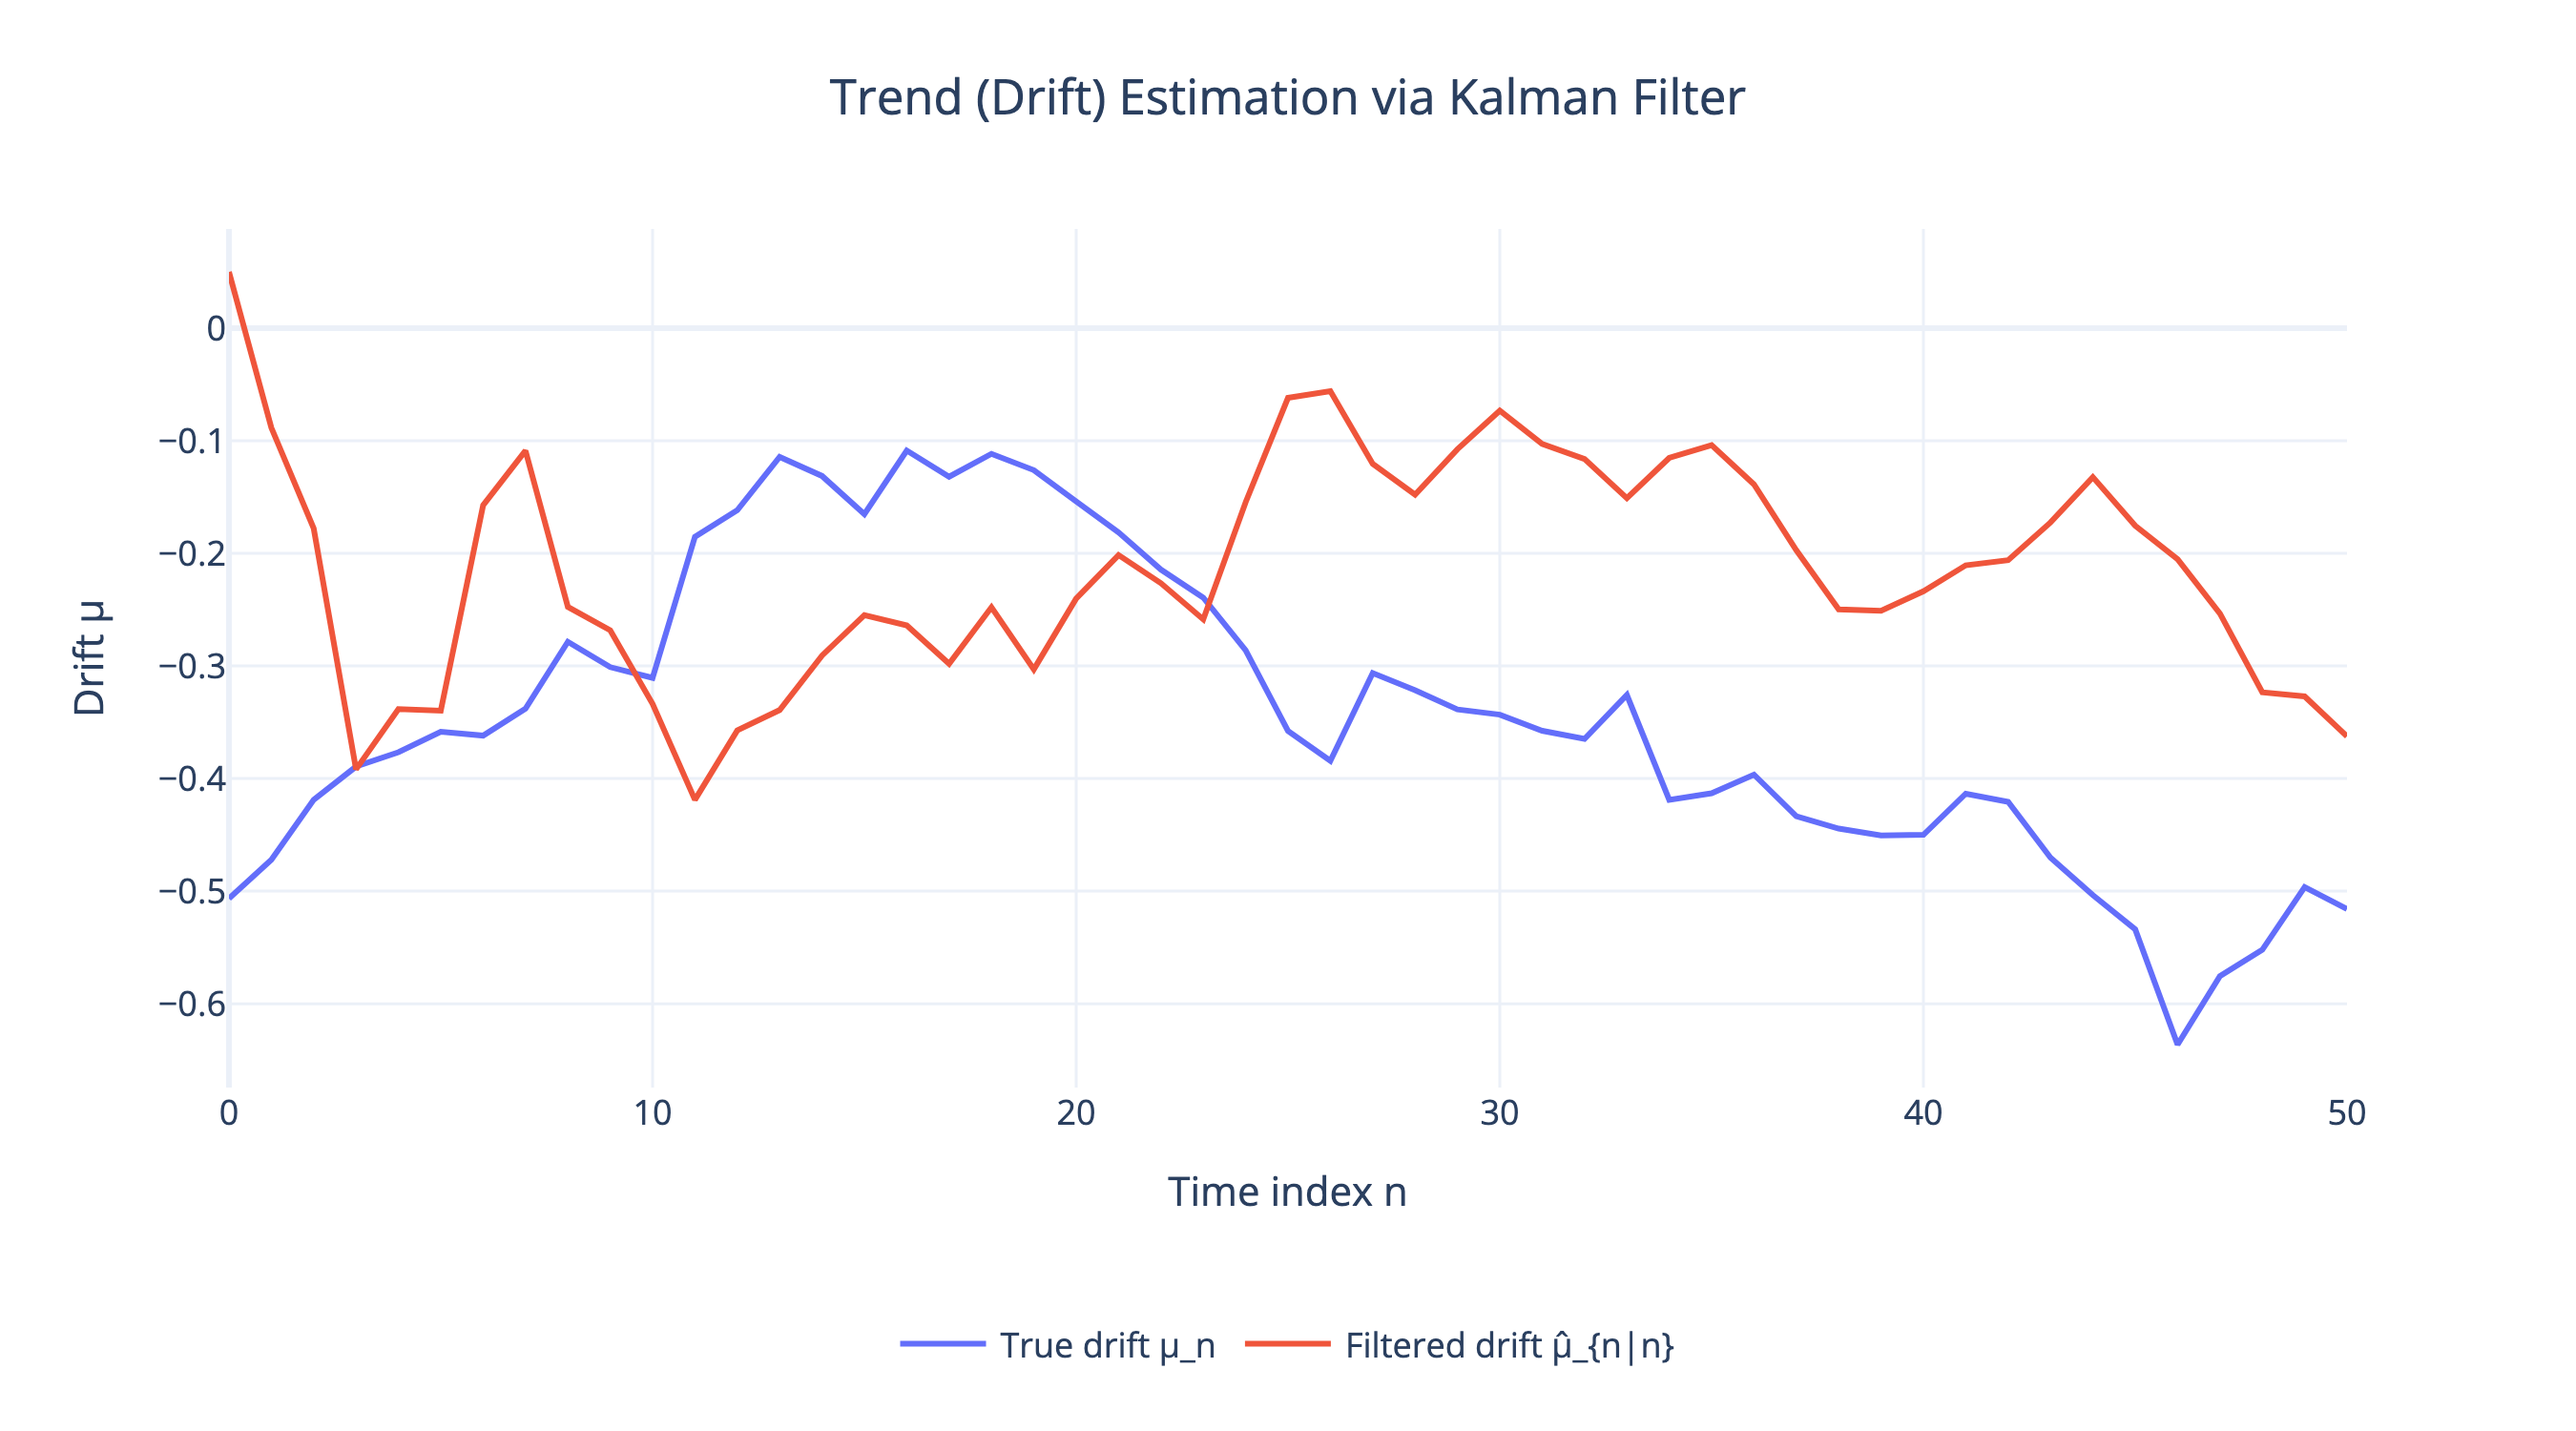
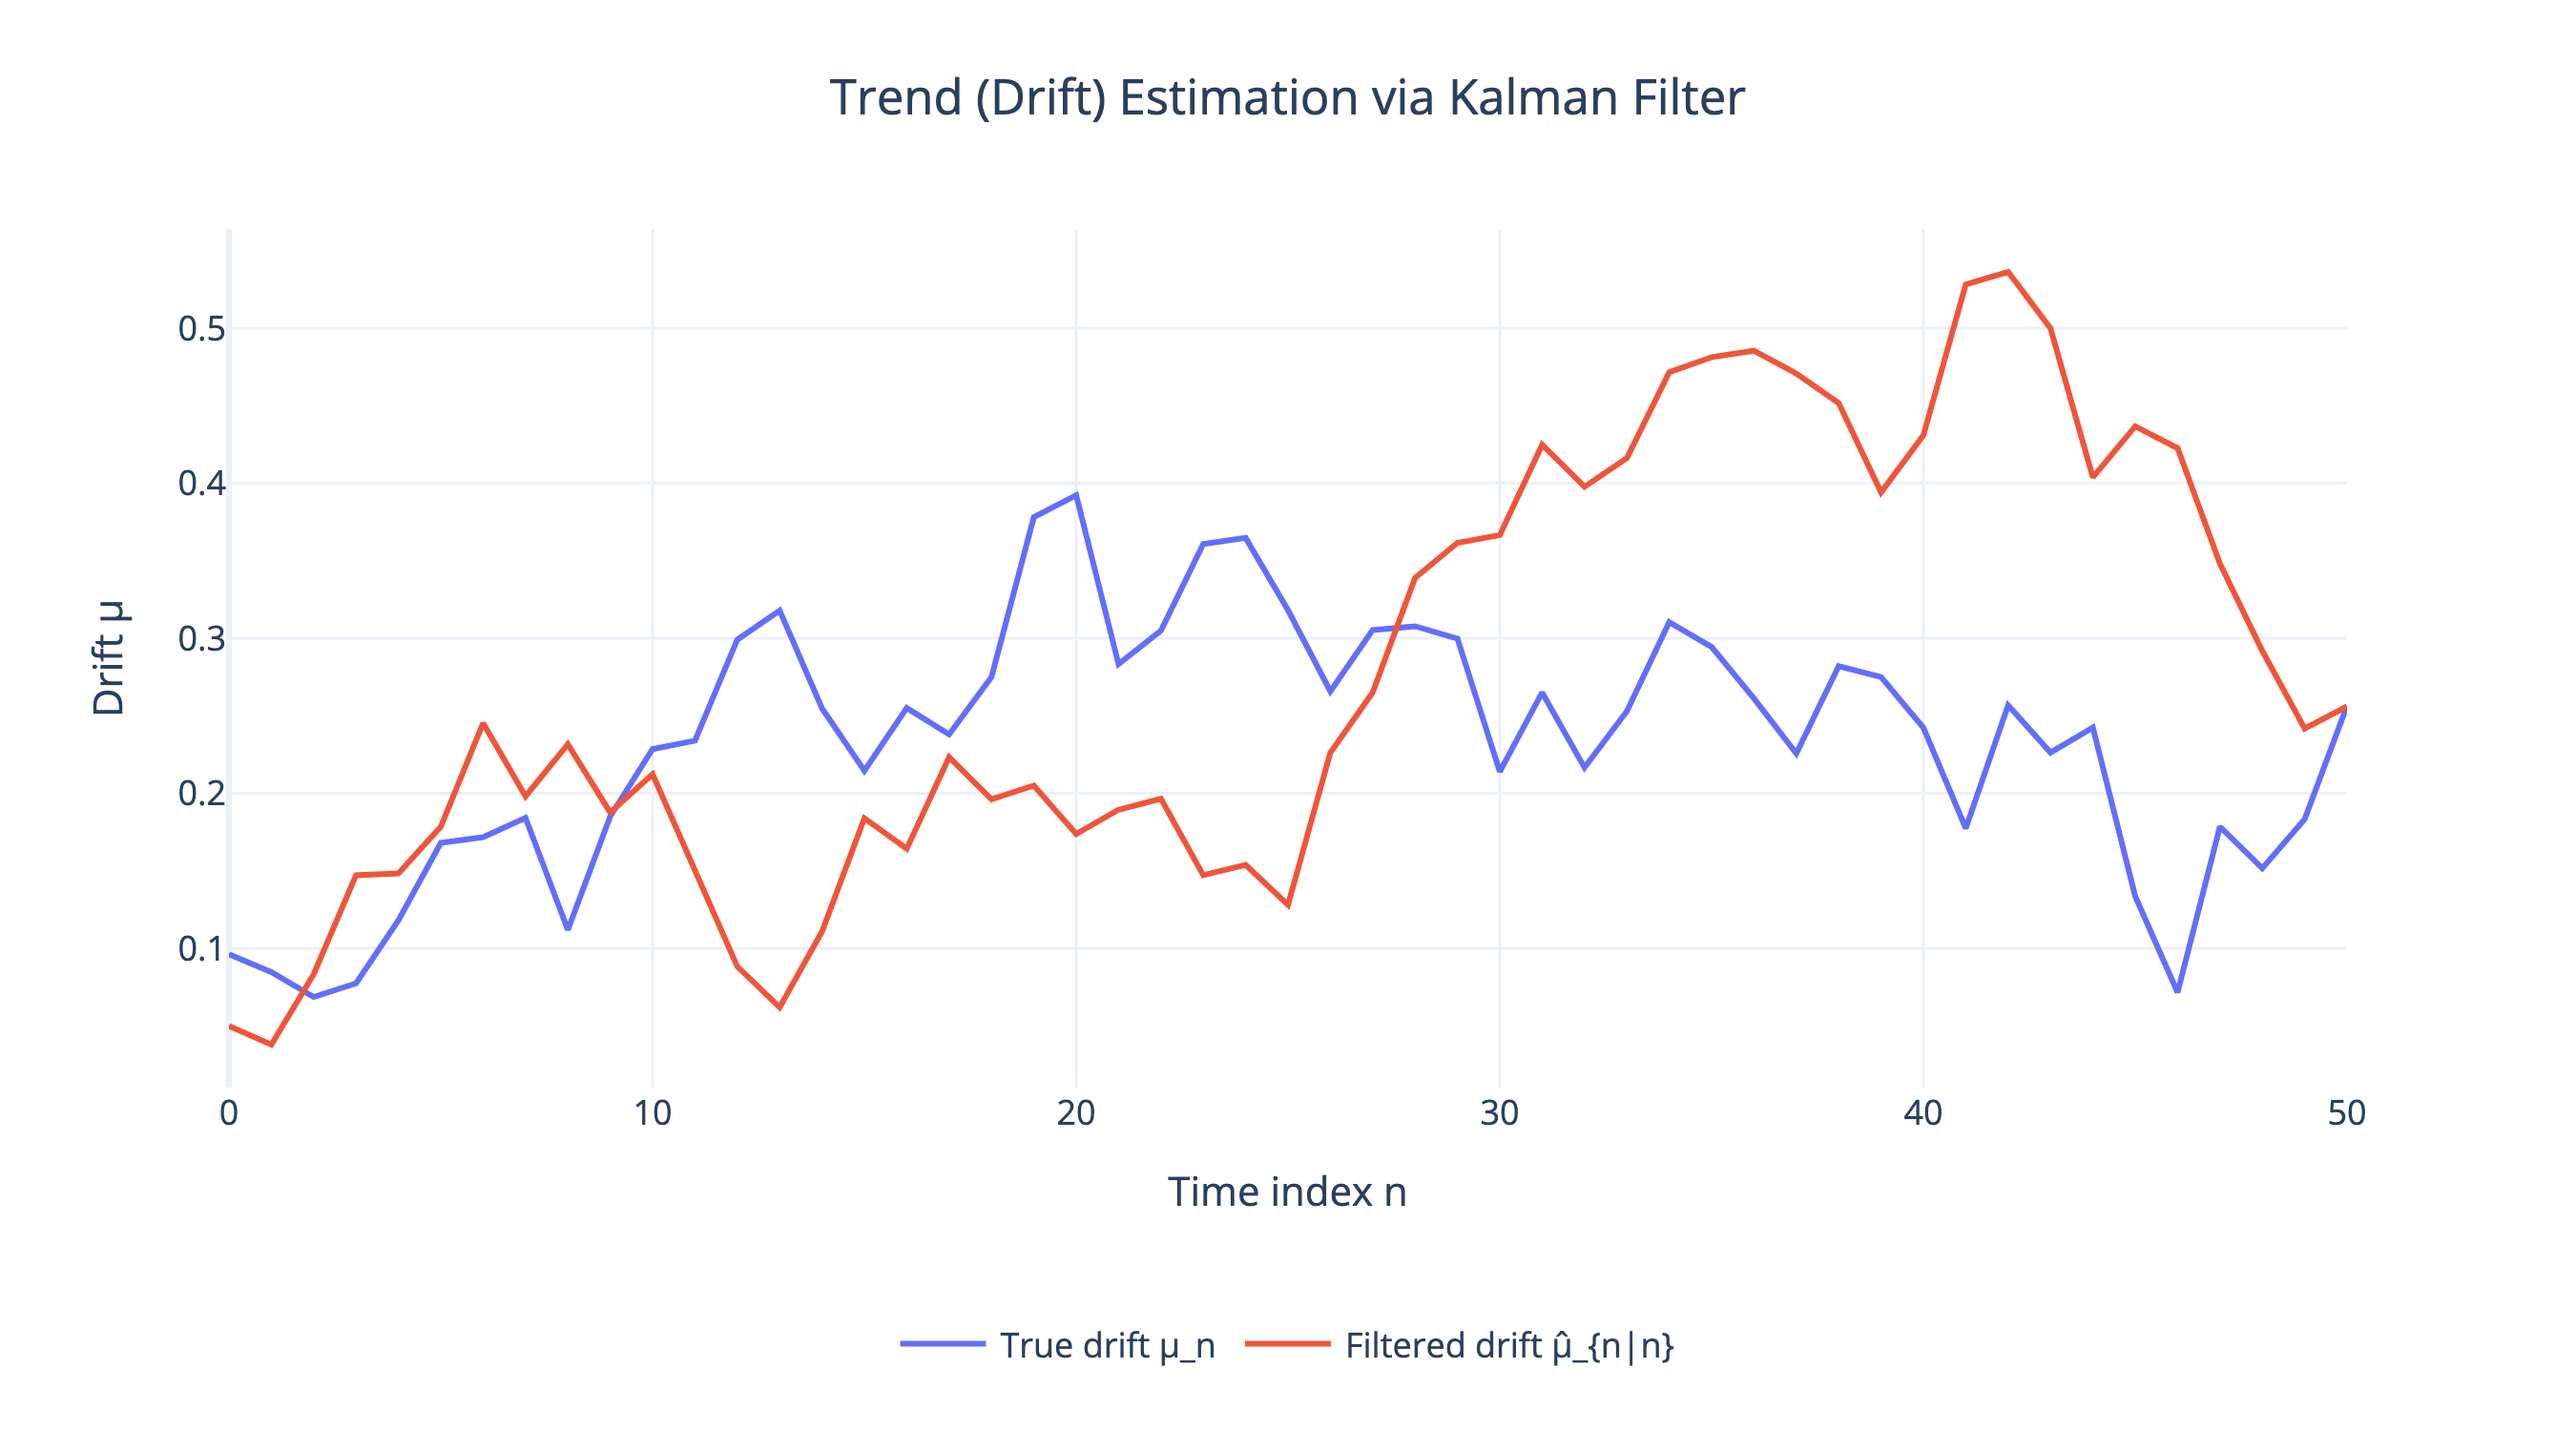
vars

diff --git a/kalman_2d_dashboard.html b/kalman_2d_dashboard.html
@@ -2,6 +2,6 @@
 <head><meta charset="utf-8" /></head>
 <body>
     <div>                        <script type="text/javascript">window.PlotlyConfig = {MathJaxConfig: 'local'};</script>
[2 lines of base64/hex data omitted]
 </body>
 </html>

diff --git a/kalman.py b/kalman.py
@@ -463,12 +463,14 @@ def main():
     Q = np.array([[sigma_p**2, 0.0],
                   [0.0, sigma_mu**2]])
 
-    sigma_y = 0.80
+    sigma_y = 1.50
     R = np.array([[sigma_y**2]])
 
     x0_mean = np.array([0.0, 0.05])
     P0 = np.array([[2.0, 0.0],
                    [0.0, 0.2]])
+    P0 = np.array([[1.0, 0.0],
+               [0.0, 0.05]])
 
     N = 50
 
